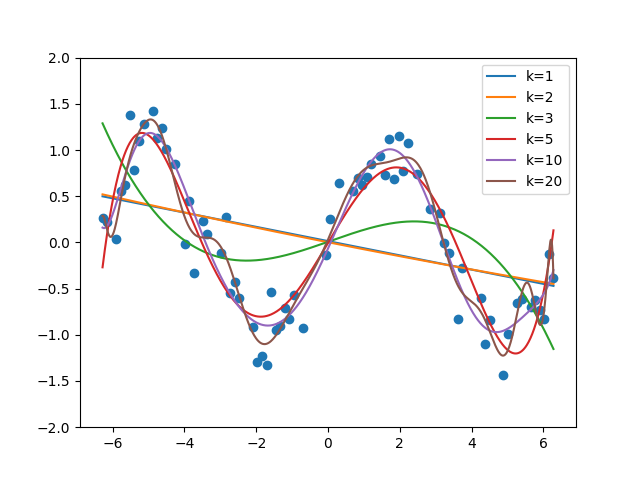
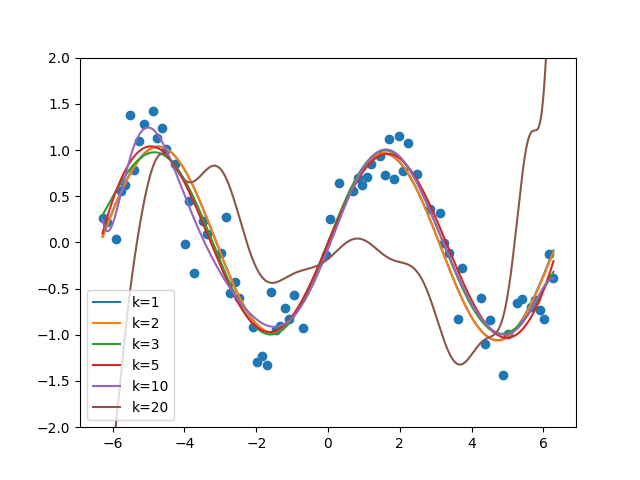
Final on FeatureMap

Changed region(s): [[0.125, 0.125, 0.9062, 0.9062], [0.6875, 0.6875, 0.75, 0.75]]

diff --git a/featuremaps/featuremap.py b/featuremaps/featuremap.py
@@ -67,7 +67,7 @@ class LinearModel(object):
         # *** START CODE HERE ***
         n_examples = X.shape[0];
 
-        map = np.zeros(n_examples, k + 2)
+        map = np.zeros((n_examples, k + 2))
 
         for i in range (0, n_examples):
             # skip intercept value to get x
@@ -121,8 +121,12 @@ def run_exp(train_path, sine=False, ks=[1, 2, 3, 5, 10, 20], filename='plot.png'
         # *** START CODE HERE ***
         lm = LinearModel()
 
-        poly_train = lm.create_poly(k, train_x)
-        poly_predict = lm.create_poly(k, plot_x)
+        if sine:
+            poly_train = lm.create_sin(k, train_x)
+            poly_predict = lm.create_sin(k, plot_x)
+        else:
+            poly_train = lm.create_poly(k, train_x)
+            poly_predict = lm.create_poly(k, plot_x)
 
         lm.fit(poly_train, train_y)
 
@@ -151,7 +155,6 @@ def main(train_path, small_path, eval_path):
     run_exp(train_path, sine=True, filename='plot_4d.png')
 
     run_exp(small_path, ks=[1, 2, 5, 10, 20], filename='plot_4e.png')
-
     # *** END CODE HERE ***
 
 if __name__ == '__main__':
